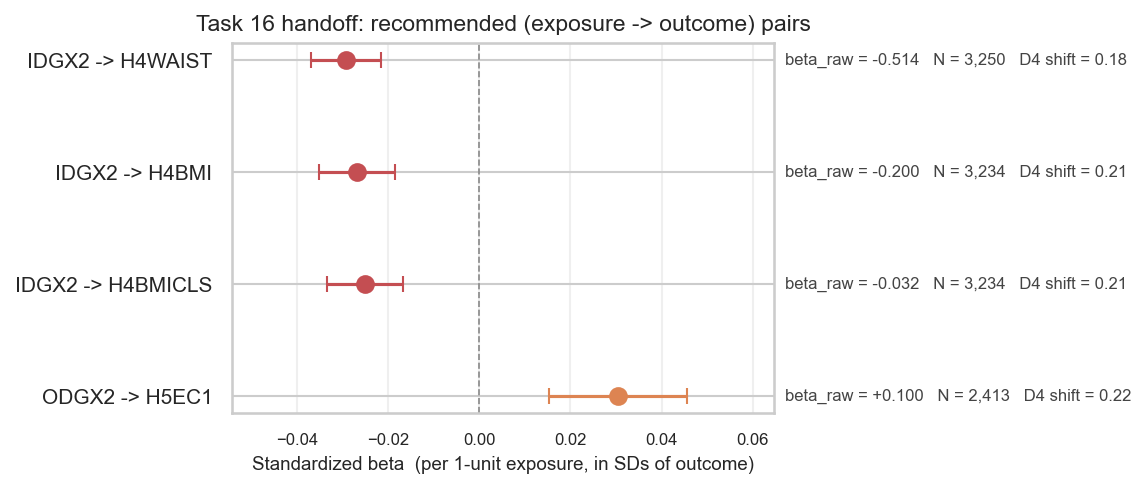
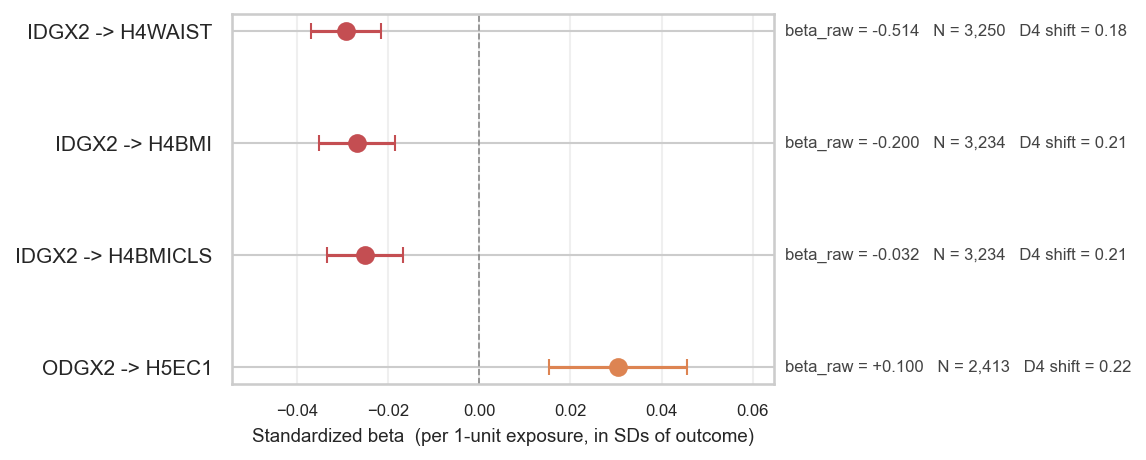
Improved documentation—variable dictionary, research journal, dataset synthesis

diff --git a/scripts/task15_journal_figs.py b/scripts/task15_journal_figs.py
@@ -67,7 +67,6 @@ def per_outcome_pcount() -> None:
     ax.axvline(24, linestyle=":", color="#888", linewidth=0.8)
     ax.set_xlim(0, 26)
     ax.set_xlabel("# of 24 exposures with p < 0.05")
-    ax.set_title("Breadth of social-exposure signal across outcomes (D1 baseline)")
 
     # Legend for group colors.
     from matplotlib.patches import Patch
@@ -133,7 +132,6 @@ def handoff_forest() -> None:
     ax.set_yticks(range(len(df)))
     ax.set_yticklabels(df["label"], fontsize=10)
     ax.set_xlabel("Standardized beta  (per 1-unit exposure, in SDs of outcome)")
-    ax.set_title("Task 16 handoff: recommended (exposure -> outcome) pairs")
     # Extra right-side room for annotations.
     ax.set_xlim(min(df["lo"].min(), 0) * 1.2 - 0.01, max(df["hi"].max(), 0) * 1.2 + 0.01)
     plt.subplots_adjust(right=0.55)

diff --git a/scripts/task14_causal_screening.py b/scripts/task14_causal_screening.py
@@ -578,7 +578,6 @@ def plot_figures(results: pd.DataFrame) -> None:
     ax.set_yticks(range(len(results)))
     ax.set_yticklabels([f"{r.exposure}  ({r.group})"
                         for _, r in results.iterrows()])
-    ax.set_title("Screening diagnostics: green=pass, red=fail, grey=NA")
     # Overlay pass-count badges.
     for i, (_, r) in enumerate(results.iterrows()):
         ax.text(len(labels) - 0.5 + 0.8, i,
@@ -648,7 +647,6 @@ def plot_figures(results: pd.DataFrame) -> None:
     ax.set_yticks(range(len(order)))
     ax.set_yticklabels(order["exposure"].values)
     ax.set_xlabel("beta on W4_COG_COMP across adjustment sets")
-    ax.set_title("D4 adjustment-set stability")
     ax.legend(loc="lower right", frameon=True)
     plot_style.save(fig, "causal/adjustment_stability.png")
 

diff --git a/scripts/task06_attrition.py b/scripts/task06_attrition.py
@@ -294,10 +294,6 @@ def stacked_bar(pres: pd.DataFrame, out_path: Path) -> None:
     ax.set_xticks(x)
     ax.set_xticklabels([lab for lab, _ in wave_labels], rotation=35, ha="right")
     ax.set_ylabel("W1 AIDs appearing in file (public-use)")
-    ax.set_title(
-        "Public-use appearances per file, stacked by Wave I biological sex\n"
-        "(baseline cohort = 6,504 W1 in-home respondents)"
-    )
     ax.legend(title="Sex (W1)")
     ax.set_ylim(0, max(totals) * 1.12)
     fig.tight_layout()

diff --git a/scripts/task12_regression_plots.py b/scripts/task12_regression_plots.py
@@ -467,8 +467,6 @@ def plot_ahpvt_with_without() -> None:
     ax.set_yticks(y)
     ax.set_yticklabels([f"{r.term} → {r.outcome}" for _, r in d.iterrows()])
     ax.set_xlabel("β (W4 cognition)")
-    ax.set_title("AH_PVT as bad control: β shift when AH_PVT is included\n"
-                 "(large shrinkage = candidate for mediation, not confounding)")
     ax.legend()
     fig.tight_layout()
     save(fig, "sensitivity/ahpvt_with_without.png")

diff --git a/scripts/task15_multi_outcome.py b/scripts/task15_multi_outcome.py
@@ -190,7 +190,6 @@ def plot_heatmaps(mat: pd.DataFrame) -> None:
                     j + 0.5, i + 0.5, "*",
                     ha="center", va="center", color="black", fontsize=14, fontweight="bold",
                 )
-    ax.set_title("Multi-outcome β standardized per outcome (* p<0.05)")
     ax.set_xlabel("")
     ax.set_ylabel("")
     plt.setp(ax.get_xticklabels(), rotation=45, ha="right")

diff --git a/reference/addhealth_synthesis.md b/reference/addhealth_synthesis.md
@@ -381,6 +381,43 @@ Wave V prefix structure (`data/W5/pwave5.xpt`):
 
 18 adjective items under `H3BM*` (Section 20 of Wave III) are visible in public-use. Exact labels for the retained items: `H3BM8` "S20Q8 TRADITIONAL SEX ROLES BEST-W3", `H3BM9` "S20Q9 R DEFENDS BELIEFS-W3", `H3BM10` "S20Q10 R IS AFFECTIONATE-W3", …, `H3BM36` "S20Q36 R IS AGGRESSIVE-W3". Derived scale scores are not in public-use.
 
+### 5.6 Identification assumptions and target estimand
+
+This is the single most important section for anyone reading coefficient tables or handoff recommendations. What follows is the causal model the screen assumes, the estimand we are targeting, and where the assumption is load-bearing.
+
+> ⚠ **AHPVT is assumed to be a confounder, not a mediator.** Every β reported in this project (tasks 10–15) conditions on `AH_PVT` (W1 verbal IQ) as part of the primary spec L0+L1+AHPVT. This is correct if AHPVT causally predicts both adolescent social integration and adult outcomes independently; it is **wrong** if AHPVT is instead on the causal path from social integration to cognition, in which case the adjustment shrinks the total effect toward zero. Task 14's D4 diagnostic measures the β drift when AHPVT is added but **cannot distinguish these two cases**. Task 16 will do so via a front-door / IV decomposition. Until then, every "weak / weakened" finding on a cognitive outcome should be read as "*weak conditional on the confounder interpretation*."
+
+**Target estimand.** The **total effect** of a W1 social-exposure X on outcome Y measured at W4 (cognition, cardiometabolic) or W5 (SES, mental health, functional) — i.e. the contrast E[Y|do(X=x1)] − E[Y|do(X=x0)] averaged over the analytic-cell population. We are not targeting a direct-only or indirect-only effect in the screen.
+
+**Assumed causal structure** (in plain DAG terms, no graph rendered here):
+
+- **Common causes** C flow into both X and Y: demographics (`BIO_SEX`, `RACE`, `PARENT_ED`), W1 mental/health state (`CESD_SUM`, `H1GH1`), and — under the confounder interpretation — W1 verbal IQ (`AH_PVT`).
+- **Assumed adjacencies**: C → X, C → Y, X → Y. No assumed direct adolescent → adolescent reverse arrow (X is measured at W1, Y at W4 or W5).
+- **Assumed absent**: unmeasured confounders (school climate, family SES beyond parental education, genetic variants). **This is the most aggressive assumption** and is what the D2 negative-control outcome was meant to test; the height NC is contaminated (see [§9](#9-outcome-battery-primary--multi-outcome-extension)) so this assumption is currently weak.
+- **Mediators** deliberately *not* adjusted for: W5 social support (`H5SS*`), W4 biomarker state (CRP, glucose) when outcome is W5. Adjusting for these would block a portion of the target total effect.
+
+**Adjustment-set ladder.** L0 → L0+L1 → L0+L1+AHPVT is designed so the β drift across the three (D4) measures *how much* of the raw signal the covariate tier explains. It is not three competing models; it is one primary (L0+L1+AHPVT) with two diagnostic reductions.
+
+| Set | Closes back-doors through | Identification role |
+|---|---|---|
+| L0 | Demographics (sex, race, parental ed) | Minimum socially-acceptable adjustment; most β estimates will move substantially when L1 is added if W1 mental/health state is a confounder |
+| L0+L1 | + CES-D + self-rated health at W1 | Blocks confounding via W1 affective / somatic state |
+| L0+L1+AHPVT | + W1 verbal IQ | **Primary spec.** Closes the remaining IQ-driven back-door under the confounder interpretation |
+
+**Positivity / overlap** is required for every stratum of the adjustment set at every level of X. The screen checks this empirically via D7 (Q5-vs-Q1 logit for continuous X; binary balance for binary X; pass = p̂ ∈ (0.02, 0.98) and effective N ≥ 500). **Structural positivity violations** in public-use:
+
+- **Saturated-school gating** (W1 network exposures): ~32 % of W1 respondents are excluded because their school did not meet the ≥75 % roster-participation threshold. The target estimand for network exposures is therefore the ATE within saturated schools, not the ATE across all Grade-7–12 adolescents.
+- **Mode restriction** (W5 cognitive outcomes): only W5 respondents in modes {I, T} received the cognitive battery (~824 of 4,196 once intersected with network data). For any W5 cognitive outcome the target is the ATE within the mode-eligible subpopulation, and generalisability to the full W5 cohort requires an additional IPAW stage.
+- **W4 → W5 attrition.** Differential retention by sex × race (see [§2.1](#21-design) and the [research_journal.md §Phase 2](research_journal.md) chart). Formal W5-outcome estimation needs **inverse-probability-of-attrition weighting (IPAW)**: fit a logistic model for "appears in W5" on L0+L1+AHPVT, take the inverse fitted probability, multiply into `GSW5`. The screen uses `GSWGT4_2` across both W4 and W5 outcomes as a comparability shortcut, not an estimation-grade weight.
+
+**What the screen does NOT identify without additional assumptions:**
+
+- Direct-only or indirect-only effects (needs mediator formula + no-unmeasured-mediator-outcome confounding; task 16 territory).
+- Population ATE across non-saturated schools (positivity fails by design).
+- Any W6 outcome (the Add CAPS cognitive battery is restricted-use; no public-use outcome at W6 maps to the W1 exposure set).
+
+See the [Glossary](#glossary) for plain-language definitions of *back-door path*, *confounder vs. mediator*, *positivity*, *negative-control outcome*, and *IPAW*.
+
 ---
 
 ## 6. Analytic feasibility — joint-complete sample sizes
@@ -408,6 +445,28 @@ These are the actual usable Ns after AID overlap + exposure non-missing + outcom
 
 **Impossible in public-use:** W6 as a cognitive outcome; friend-level characteristics; custom networks beyond the 439 pre-computed.
 
+### 6.5 Causal-screening diagnostic battery (D1–D9)
+
+Every exposure in task 14 passes through nine diagnostics. Each D tests a specific identification assumption or data-quality condition; passing them together is necessary but not sufficient for a causal interpretation. Full implementation: [scripts/task14_causal_screening.py](../scripts/task14_causal_screening.py). Per-exposure pass/fail grid: [outputs/14_screening_matrix.csv](../outputs/14_screening_matrix.csv). Narrative walk-through: [research_journal.md §Phase 4](research_journal.md#phase-4--preliminary-causal-screening-d1d9).
+
+Terms used below (see [Glossary](#glossary) for plain-language intuition): *back-door path*, *confounder vs. mediator*, *negative-control outcome*, *positivity*, *collider*.
+
+| # | Name | What it checks | Formal pass criterion | Fail means |
+|:-:|---|---|---|---|
+| **D1** | Baseline significance | Is there any signal at the primary spec (L0+L1+AHPVT) before stability / specificity checks? | p < 0.05 on the exposure coefficient in a WLS fit with `GSWGT4_2` + cluster-robust SE on `CLUSTER2` | No detectable marginal association; later diagnostics are informational only |
+| **D2** | Negative-control outcome | Does the exposure predict an outcome it *shouldn't* (`HEIGHT_IN`)? If yes, unmeasured confounding is likely. | p ≥ 0.10 on exposure → adult height, under the primary adjustment set | NC-level confounding is detected — but see the contamination caveat in [§9](#9-outcome-battery-primary--multi-outcome-extension) |
+| **D3** | Sibling dissociation | Is the target effect larger than a "related but weaker" sibling exposure, and in the same sign? Same-school / same-grid contrast. | `sign(β_target) == sign(β_sibling)` **AND** `\|β_target\| > \|β_sibling\|` **AND** `\|β_target − β_sibling\| > sqrt(se_t² + se_s²)` | Target and sibling are indistinguishable → target probably isn't capturing exposure-specific signal |
+| **D4** | Adjustment-set stability | How much does β drift as the adjustment set expands L0 → L0+L1 → L0+L1+AHPVT? Large drift = hidden confounding OR hidden mediation. | Relative shift `(max − min) / \|β_primary\| < 0.30` **AND** sign stable across all three | β depends on which covariates you include — causal identification is not closed by the assumed DAG |
+| **D5** | Outcome-component consistency | Do the three W4 cognitive sub-tests (immediate/delayed word recall, digit span) line up in sign? Cognition only. | All three component β in the same direction as the composite, no opposite-sign dissent | Composite signal is driven by one sub-test; spurious or narrow construct |
+| **D6** | Dose-response monotonicity | For a continuous exposure, does the outcome move monotonically across exposure quintiles? | Spearman ρ across quintile means ≥ 0.6, no mid-range inversion | Non-monotonic response — linear-in-X spec is mis-specified |
+| **D7** | Positivity / overlap | Is there non-zero probability of every exposure level at every covariate stratum? Q5-vs-Q1 logit (continuous) or binary balance (binary). | Fitted p̂ ∈ (0.02, 0.98) AND effective N ≥ 500 after overlap trimming | No usable comparison group in parts of covariate space; estimate is extrapolation |
+| **D8** | Saturated-school selection penalty | Informational. How much of W1 is lost to the network-file saturation gate for this specific exposure? | Reports N(analytic) / N(W1) ratio; no pass/fail threshold | External-validity caveat — estimand is within-saturated-schools |
+| **D9** | Collider / double-adjustment red flags | Hard-coded list of known bad-combination exposures (e.g. using `H1FS13` as exposure while adjusting for `CESD_SUM`, which contains `H1FS13`). | Not on the red-flag list | Collider bias or mechanical double-counting; drop from shortlist |
+
+**Composite score.** Each exposure is scored 0–8 based on passes across D1–D9 (D8 is informational; red-flags discount the score). Categories: **Strong** (score ≥ 7), **Mixed** (5–6), **Weakened** (3–4), **Drop** (< 3 or D9 red flag). The task-16 handoff is drawn from Strong + Mixed, never from Drop.
+
+**Why the battery is not sufficient.** Passing D1–D9 does *not* prove a causal effect — it only rules out nine specific failure modes. Unmeasured confounders outside the L0+L1+AHPVT set (school climate, early-childhood cognition, family SES beyond parental education) are still possible. Task 16's job is to bound those via front-door decomposition, E-value-style sensitivity, and a cleaner NC battery.
+
 ---
 
 ## 7. Data-quality gotchas
@@ -418,8 +477,8 @@ These are the actual usable Ns after AID overlap + exposure non-missing + outcom
 4. **Wave V mode restriction** on cognitive tests: In-person + Telephone only. 95% of non-administration is the `995` / `9995` "question not asked" reserve code.
 5. **Reserve-code heterogeneity.** W1–W4 use 6/96/996 (refused), 7/97/997 (skip), 8/98/998 (DK), 9/99/999 (NA). W5 adds 95/995/9995 ("not asked") and Web/Mail modes have no DK option — DK arrives as silent NA.
 6. **`AH_PVT` ~15% missing.** Use `AH_RAW` (~4.3% missing) and re-standardize.
-7. **`PRXPREST` is continuous in public-use.** Range 0.00045–0.774, mean 0.161, std 0.070, 3,920 unique values across N=4,020 non-null in `w1network.sas7bdat`. Treat as a continuous centrality measure (earlier notes in this doc that described it as binary 0/1 were incorrect and have been corrected; see also §2 variable table line for PRXPREST which shows the continuous range).
-8. **Attrition is strongly sex-patterned.** At W5, female retention 64–76% vs male 43–63% within race strata. `GSW5`/`GSW6` correct partially for observed-cause attrition; IPAW or bounding is advisable for longitudinal claims.
+7. **`PRXPREST` is continuous in public-use.** Range 0.00045–0.774, mean 0.161, std 0.070, 3,920 unique values across N=4,020 non-null in `w1network.sas7bdat`. Treat as a continuous centrality measure.
+8. **Attrition is strongly sex-patterned.** At W5, female retention 64–76% vs male 43–63% within race strata. `GSW5`/`GSW6` correct partially for observed-cause attrition; [IPAW](#glossary) or bounding is advisable for longitudinal claims (see [§5.6](#56-identification-assumptions-and-target-estimand)).
 9. **Race construction is hierarchical** in the default `RACE` variable — build from `H1GI6A–E` for flexible coding.
 10. **Age uses month + year only** (day 15 imputed). Use the most recent wave's birthdate for discrepancies.
 
@@ -474,9 +533,16 @@ The primary design targets W4 cognition (`W4_COG_COMP`, a z-score composite of `
 | `H5MN2` | "S13Q2 LAST MO CONFID HANDLE PERS PBMS—W5" | W5 | 5-point Likert | `GSWGT4_2` | 2,380 | secondary screen | PSS-4 component, **reverse-scored direction** vs `H5MN1` |
 | `H5LM5` | "S3Q5 CURRENTLY WORK—W5" | W5 | 3-level | `GSWGT4_2` | 2,436 | secondary screen | Not binary: {1=yes, 2=no temp absent, 3=no not employed}. Task16 should recode before logistic estimation |
 | `H5EC1` | "S4Q1 INCOME PERS EARNINGS [W4–W5]—W5" | W5 | bracketed 1–13 | `GSWGT4_2` | 2,413 | secondary screen | **Bracketed dollars, not raw income** (1 = <$5k, 13 = $250k+). Treat as ordinal |
-| `HEIGHT_IN` | derived in inches from `H4SE2`/`H4SE3` | W4 | continuous | `GSWGT4_2` | 3,392 | negative control | D2 diagnostic. **Contaminated NC**: adolescent height is known to correlate with peer popularity, so D2 failure on centralities is not conclusive proof of confounding |
+| `HEIGHT_IN` | derived in inches from `H4SE2`/`H4SE3` | W4 | continuous | `GSWGT4_2` | 3,392 | negative control (contaminated) | D2 diagnostic. Adolescent height is known to correlate with peer popularity, so D2 failure on centralities is *not* conclusive proof of confounding |
 
-> **Weight caveat.** `GSWGT4_2` is used uniformly across all 14 outcomes for screening — this is statistically incorrect for the W5 outcomes (where the design-correct weight is `GSW5` or `GSW145`/`GSW1345`), but preserves rank-order across outcomes for a *comparative* screen. Formal causal estimation in Task 16 should: (1) switch to `GSW5` + IPAW for W4→W5 attrition when the outcome is W5-observed, (2) retain `GSWGT4_2` for pure-W4 outcomes, and (3) explicitly model the ~824-row overlap between saturated-school network respondents and W5 cognitive-eligible (mode ∈ {I, T}) respondents before declaring a point estimate on longitudinal pathways.
+> **How to read D2 results given the contaminated NC.** The task 14 D2 column is reported for transparency but is **not load-bearing** for the shortlist. We do not drop an exposure from the Strong / Mixed category on the basis of D2 alone; we *do* report D2 passes as weak corroboration of no NC-level confounding. A D2 fail on network-centrality exposures (`IDGX2`, `BCENT10X`) is treated as ambiguous — it could indicate unblocked confounding, **or** it could reflect the known height → peer-status pathway. Task 16 will introduce a cleaner NC battery (blood type, age at menarche, hand-dominance, residential stability pre-W1) to resolve this; until then any handoff recommendation should be caveated as "D2-unverified." See also [research_journal.md §Phase 4 critique](research_journal.md#phase-4--preliminary-causal-screening-d1d9).
+
+> **Weight caveat and IPAW for W5 outcomes.** `GSWGT4_2` is used uniformly across all 14 outcomes for screening — this is a comparability shortcut that preserves rank-order across outcomes for a *screen*, but is not an estimation-grade weight for W5 outcomes. Formal causal estimation in Task 16 should:
+>
+> 1. **Use `GSW5` for W5 outcomes, `GSWGT4_2` for pure-W4 outcomes.** Each wave's cross-sectional weight targets a specific population (W4-retained respondents vs. W5-retained respondents).
+> 2. **Layer IPAW on top of `GSW5`.** `GSW5` corrects for **observed** attrition patterns the Add Health team modeled (sex, race, region), but not for attrition that is differential on W1 covariates or exposure. [IPAW](#glossary) = fit a logistic model for "appears in W5 mode-eligible cell" on L0+L1+AHPVT + exposure, compute the inverse fitted probability, and multiply into `GSW5`. This targets the W5 cognition/SES/mental-health outcome's ATE in the broader population that W4 respondents were drawn from.
+> 3. **Re-check positivity under `GSW5` + IPAW.** Extreme IPAW weights (> 95th percentile) should be trimmed or stabilized; document stabilized effective N.
+> 4. **Bound, don't adjust**, when the full covariate set for a proper IPAW fit isn't observed (e.g. school saturation). Prefer Manski-style bounds to a speculative weight.
 
 ### Key task-15 findings
 
@@ -520,10 +586,90 @@ See also: [feasibility_summary.md](feasibility_summary.md) for the empirical pro
 
 ---
 
+## Glossary
+
+Plain-language definitions of the causal-inference and survey-statistics vocabulary used throughout the reference set. Each entry points to the section in this document where the concept first appears and explains *why* it matters for the project. Alphabetical.
+
+### Back-door path
+<a id="glossary-back-door-path"></a>
+An indirect route from the exposure X to the outcome Y through a common ancestor C (C → X and C → Y), rather than through the intended causal channel X → Y. Back-door paths create *spurious* associations that look like causation. **Why it matters**: every unblocked back-door path biases the causal estimate. The job of the adjustment set ([§5.6](#56-identification-assumptions-and-target-estimand)) is to "close" all back-door paths by conditioning on at least one variable on each path. First used in [§7 pitfall #1 context](#7-data-quality-gotchas); formalised in [§5.6](#56-identification-assumptions-and-target-estimand).
+
+### CASI (Computer-Assisted Self-Interview)
+Sensitive items (drug use, sexual behaviour, mental-health items under `H5MN*`) are delivered via respondent-controlled screen so an interviewer is not in the loop. Higher truth-telling but more item non-response. First used in [§5.4](#54-wave-v-adult-contemporaneous-covariates).
+
+### Cluster-robust standard error
+A standard error that accounts for within-PSU correlation by treating each cluster (school pair = `CLUSTER2`) as a unit for variance computation. **Why it matters**: nominal OLS SEs assume independent observations. Add Health is school-clustered, so nominal SEs are too small; cluster-robust SEs are wider and more honest. First used in [§2.1](#21-design).
+
+### Collider
+A variable jointly *caused* by two others (X → C ← Z). **Why it matters**: conditioning on a collider *opens* a spurious association between its causes, the opposite of what you want. Example: if peer centrality and depression both cause school belonging, adjusting for school belonging creates a spurious centrality–depression correlation. D9 in the diagnostic battery ([§6.5](#65-causal-screening-diagnostic-battery-d1d9)) flags known-collider exposure choices.
+
+### Confounder
+A common cause of both exposure and outcome — adjusting for it is *required* to identify the causal effect. **Why it matters**: contrast with mediator — the two look the same empirically (both shift β when added to the model) but call for opposite treatment. The [AHPVT callout](#56-identification-assumptions-and-target-estimand) is the project's load-bearing confounder-vs-mediator ambiguity. First used in [§5.6](#56-identification-assumptions-and-target-estimand).
+
+### DAG (Directed Acyclic Graph)
+A flowchart where nodes are variables and arrows run from causes to effects, with no cycles. **Why it matters**: drawing a DAG forces you to make causal assumptions explicit, and once it's drawn, graph-theoretic rules tell you which covariates to adjust for. This project does not render a full DAG but describes one textually in [§5.6](#56-identification-assumptions-and-target-estimand).
+
+### Design effect (DEFF)
+Ratio of the true variance under the complex design to the variance under simple random sampling of the same N. **Why it matters**: DEFF > 1 means your 3,500-observation sample behaves like a smaller SRS sample for inference purposes. Audited in [outputs/13_deff.csv](../outputs/13_deff.csv).
+
+### Dose-response monotonicity
+The expectation that as exposure increases, the outcome changes in a consistent direction — no plateaus, inversions, or threshold effects. **Why it matters**: D6 in the diagnostic battery. A non-monotonic dose-response can signal non-linearity, effect heterogeneity, or misspecification of the linear-in-X model.
+
+### Effective N (eff N)
+Sample size adjusted for design effect and, where relevant, weight dispersion: `eff_N = N / DEFF` or more generally `eff_N = (Σw)² / Σw²`. **Why it matters**: D7 positivity check requires eff_N ≥ 500 post-trimming, not raw N. See [§6.5](#65-causal-screening-diagnostic-battery-d1d9).
+
+### Front-door criterion
+A causal identification strategy that bounds the X → Y effect through a mediator M when back-door adjustment fails (because unmeasured confounders exist). Requires X → M → Y with no direct X → Y, M fully mediating, and no unmeasured M–Y confounders. **Why it matters**: Task 16's plan for distinguishing whether AHPVT is a confounder or mediator of the social-integration → cognition path.
+
+### Identification (identifying assumption, identification strategy)
+The set of causal assumptions under which a statistical estimand (e.g. a regression coefficient) equals the causal estimand of interest (e.g. E[Y|do(X)]). **Why it matters**: β̂ is always estimable; whether it equals the causal effect depends on whether the identifying assumptions hold. [§5.6](#56-identification-assumptions-and-target-estimand) lists this project's assumptions.
+
+### IPAW (Inverse-Probability-of-Attrition Weighting)
+A reweighting scheme that inflates the weight on respondents who *remained* in the study to compensate for attrition of similar respondents. Computed as `w_IPAW = 1 / Prob(remain | covariates)`. **Why it matters**: W4 → W5 attrition is sex-patterned; cross-sectional W5 weights `GSW5` only partially correct for it. Formal W5 estimation should apply IPAW on top of `GSW5`. See [§5.6](#56-identification-assumptions-and-target-estimand) and outstanding uncertainty #3 in [research_journal.md](research_journal.md).
+
+### IV (Instrumental Variable)
+A variable Z that affects the exposure X but not the outcome Y except through X, and shares no common cause with Y. Used to identify X → Y even under unmeasured confounding. **Why it matters**: a fallback identification strategy for Task 16 if front-door is not credible.
+
+### Mediator
+A variable on the causal path X → M → Y. **Why it matters**: adjusting for M blocks part of the total effect, *shrinking β toward zero*. This is the opposite of what adjusting for a confounder does (which should reveal the true β by removing bias). The two operations look identical in a regression table — only a DAG (or a front-door / IV decomposition) can tell them apart. See [AHPVT callout, §5.6](#56-identification-assumptions-and-target-estimand).
+
+### Mode (W5 survey mode)
+The channel through which the W5 interview was administered: W = Web, I = In-person, M = Mail, T = Telephone, S = Spanish CAPI. **Why it matters**: cognitive items were administered only in I + T, restricting the W5 cognitive analytic cell to ~624 of 4,196. See [§4.5](#45-wave-v-cognitive-battery-datawaw5pwave5xpt).
+
+### Negative-control outcome (NC)
+An outcome Y* that, under the assumed causal model, should **not** be affected by X. If X still predicts Y*, unmeasured confounding is implicated. **Why it matters**: D2 in the diagnostic battery uses `HEIGHT_IN`. The NC is contaminated (adolescent height correlates with peer popularity), so failures on network exposures are ambiguous. See [§9](#9-outcome-battery-primary--multi-outcome-extension).
+
+### Positivity (overlap)
+The assumption that every level of the exposure has non-zero probability of occurring at every level of the covariates. Formally: P(X = x | C = c) > 0 for all (x, c). **Why it matters**: without positivity, causal estimates in the violated region are extrapolations beyond the data, not causal effects. D7 in the diagnostic battery tests positivity empirically. Structural positivity violations (saturated-school gating, W5 mode restriction) are documented in [§5.6](#56-identification-assumptions-and-target-estimand).
+
+### Post-stratification weight
+A weight that re-scales the sample so that known marginal distributions (e.g. age × sex × race) match the population. **Why it matters**: `GSWGT4_2` is a post-stratified weight. Post-stratification corrects for differential sampling and non-response, not for unmeasured confounding.
+
+### PSU (Primary Sampling Unit)
+The first-stage unit in a multistage sample; for Add Health this is the high-school / feeder-middle-school pair (`CLUSTER2`, 132 PSUs). **Why it matters**: cluster-robust SEs, design effects, and `svyset` all reference the PSU. First used in [§2.2](#22-design-variables-in-public-use).
+
+### Reserve code
+Non-substantive codes on a variable indicating refusal, don't know, skip, or not-administered (W1–W4: 6/96/996 etc.; W5 adds 95/995/9995 for "not asked"). **Why it matters**: treating reserve codes as substantive values (e.g., summing them into a scale) silently corrupts every downstream statistic. `analysis_utils.clean_var` + `VALID_RANGES` strip them. See [§7 pitfall #5](#7-data-quality-gotchas).
+
+### Saturated school
+A school where ≥ 75 % of the student roster participated in the W1 In-School Questionnaire. **Why it matters**: network centralities (in-degree, etc.) require knowing who nominated the respondent, so they are only defined in saturated schools. ~32 % of W1 respondents are in non-saturated schools; their network variables are structurally missing. First used in [§3.1](#31-wave-i-public-use-network-file--pre-computed-sociometric-measures); positivity consequences in [§5.6](#56-identification-assumptions-and-target-estimand).
+
+### Sibling dissociation (D3)
+A specificity check: the *target* exposure should have a larger effect than a *sibling* exposure (a related variable expected to carry less of the causal signal), and both should move in the same direction. **Why it matters**: a target with a smaller or opposite-signed effect than its sibling is probably not capturing exposure-specific signal. Formalised in [§6.5](#65-causal-screening-diagnostic-battery-d1d9).
+
+### Stratum
+The second design dimension (after clustering) in a complex survey. **Why it matters**: stratum information is *not* in the public-use Add Health distribution. Per the Add Health user guide, omitting stratum "only minimally affects the standard errors," so this project sets stratum to empty in `svyset`. First used in [§2.2](#22-design-variables-in-public-use).
+
+### TFN (Total Friendship Nominations)
+The W1 In-School Questionnaire asked each student to nominate up to 5 male + 5 female friends from the school roster. Centralities tagged with "TFN" (e.g. `IDGX2` "In-Degree: TFN") are computed on this 10-nomination-cap network. See [§3.1](#31-wave-i-public-use-network-file--pre-computed-sociometric-measures).
+
+---
+
 ## Changelog
 
 Reverse-chronological. Only entries that can be verified from the repo / git history or the current session.
 
+- **2026-04-21** — Reviewer-feedback pass (causal-inference PhD student + math/CS undergrad): added §5.6 "Identification assumptions and target estimand" with starred AHPVT confounder-vs-mediator callout and the assumed-DAG / positivity / IPAW narrative; added §6.5 "Causal-screening diagnostic battery (D1–D9)" with formal pass/fail thresholds and plain-language intuition per diagnostic; expanded the §9 weight caveat into an explicit IPAW recipe and added a "how to read D2 under the contaminated NC" callout; added a plain-language [Glossary](#glossary) appendix with anchor links used throughout the reference set. Pitfall #7 (PRXPREST) trimmed — the stale "earlier notes were incorrect" apology is removed now that the root cause is fixed in [scripts/task05_weighted_descriptives.py](../scripts/task05_weighted_descriptives.py) and the regenerated [outputs/05_weighted_descriptives.md](../outputs/05_weighted_descriptives.md).
 - **2026-04-21** — §9 rewritten from "Pivot option — cardiometabolic / vascular outcomes" to "Outcome battery: primary + multi-outcome extension" covering the 12 Task 15 outcomes + primary cognition + height NC (14-row outcome table with weight caveat callout). §10 deliverables index extended from task 7 through task 15. §2.5 now points readers to the new [variable_dictionary.md](variable_dictionary.md). This Changelog section added.
 - **2026-04-20** — Pitfall #7 (§7) corrected: `PRXPREST` was previously described as a binary 0/1 variable, which contradicted §3.1 line 117 showing the continuous range [0, 0.77]. Corrected to "continuous in public-use" with empirical range / mean / std and an explicit note that earlier binary descriptions were wrong.
 - **Earlier** — Initial merged synthesis from v2 feasibility report + documentation report + empirical feasibility summary. See `git log reference/addhealth_synthesis.md` for prior history.

diff --git a/reference/research_journal.md b/reference/research_journal.md
@@ -2,7 +2,7 @@
 
 Chronological log of analytic steps, headline findings, and outstanding uncertainties. Intended as a narrative companion to [addhealth_synthesis.md](addhealth_synthesis.md) (the dataset-reference manual) and [variable_dictionary.md](variable_dictionary.md) (per-code lookup). Each phase below corresponds to one or more scripts in [../scripts/](../scripts/) and artefacts in [../outputs/](../outputs/) + [../img/](../img/).
 
-Terms, variable codes, and dataset-level conventions used here (waves, weights, mode restrictions, reserve codes) are defined in the synthesis and not re-explained; new readers should skim §§1–5 of [addhealth_synthesis.md](addhealth_synthesis.md) first.
+Terms, variable codes, and dataset-level conventions used here (waves, weights, mode restrictions, reserve codes) are defined in the synthesis and not re-explained; new readers should skim §§1–5 of [addhealth_synthesis.md](addhealth_synthesis.md) first. For plain-language definitions of causal-inference vocabulary (*back-door path*, *confounder vs. mediator*, *positivity*, *IPAW*, *front-door*, *collider*, *DAG*, *PSU*, *saturated school*, *negative control*, etc.), see the [synthesis Glossary](addhealth_synthesis.md#glossary) — this journal assumes the glossary's definitions.
 
 ---
 
@@ -44,7 +44,7 @@ Reserve-code handling (6/7/8/9, 96/97/98/99, 995/9995) is codified in `analysis_
 
 Wave-conditional retention is sharply sex- and race-patterned: at W5, female retention runs 64–76 % versus male 43–63 % within race strata, with higher attrition in Black male and Native American cells.
 
-![W1 → W2/W3/W4/W5 attrition stacked by sex × race](../outputs/06_attrition_stacked_bar.png)
+![Public-use W1 → W6 appearances per wave, stacked by W1 biological sex. Baseline is 6,504 W1 in-home respondents; female retention (pink) widens the sex gap at each wave.](../outputs/06_attrition_stacked_bar.png)
 
 Analytic frames were frozen in [outputs/cache/](../outputs/cache/) parquets (`w1inhome`, `w1network`, `w1friendship`, `w3pvt`, `w4inhome`, `pwave5`, and the combined `analytic_primary`) so downstream tasks don't re-read SAS files.
 
@@ -58,11 +58,11 @@ Analytic frames were frozen in [outputs/cache/](../outputs/cache/) parquets (`w1
 
 Ran weighted OLS for each of the 24 exposures against `W4_COG_COMP` under nested adjustment sets L0 → L0+L1 → L0+L1+AHPVT, with cluster-robust SEs on `CLUSTER2` (132 PSUs). Task 11 layered collinearity checks, leave-one-out permutation, saturated-school balance, AHPVT shift audits, placebo permutation, and reserve-code sensitivity; task 13 verified Benjamini–Hochberg FDR, attrition IPAW, negative-control exposures/outcomes, design-effect estimates, PSU counts.
 
-![Coefficient shift when AHPVT is added vs. removed from the primary spec](../img/sensitivity/ahpvt_with_without.png)
+![Each row is one (exposure → W4 cognition) model. Grey circle = β without `AH_PVT` in the adjustment set; red square = β with. Every network centrality shrinks 30–50 % when `AH_PVT` is added — the signature shift that either confounder or mediator interpretations would produce (see [synthesis §5.6 AHPVT callout](addhealth_synthesis.md#56-identification-assumptions-and-target-estimand)).](../img/sensitivity/ahpvt_with_without.png)
 
 **Main finding.** Adjusting for AHPVT attenuates every network-centrality → cognition association by 30–50 %. `ODGX2` (nominations sent) holds the largest stable effect post-adjustment; `IDGX2` (in-degree) attenuates heavily but retains significance; `BCENT10X` (Bonacich) has the largest raw β but attenuates the most. No exposure survives L0+L1+AHPVT with D4 rel-shift < 30 %.
 
-**Uncertainty logged.** Whether AHPVT is a confounder (verbal IQ predicts both social integration and adult cognition) or a mediator of the integration → cognition path. Conditioning on a mediator under-estimates the total effect; this ambiguity is unresolved at this phase and propagates to the screen in Phase 4.
+**Uncertainty logged — load-bearing.** Whether `AH_PVT` is a [confounder](addhealth_synthesis.md#confounder) (verbal IQ independently predicts both social integration and adult cognition — adjustment is *required*) or a [mediator](addhealth_synthesis.md#mediator) of the integration → cognition path (adjustment *under-estimates* the total effect). The two cases produce identical D4 drift, so D4 alone cannot distinguish them. This project's standing assumption is *confounder*; the [synthesis §5.6 AHPVT callout](addhealth_synthesis.md#56-identification-assumptions-and-target-estimand) flags this as the single largest threat to interpretation of any cognitive-outcome finding. Task 16's [front-door](addhealth_synthesis.md#front-door-criterion) / [IV](addhealth_synthesis.md#iv-instrumental-variable) decomposition is the planned resolution.
 
 ---
 
@@ -70,10 +70,10 @@ Ran weighted OLS for each of the 24 exposures against `W4_COG_COMP` under nested
 
 **Task:** 14. **Script:** [task14_causal_screening.py](../scripts/task14_causal_screening.py). **Outputs:** [outputs/14_screening.md](../outputs/14_screening.md), [outputs/14_screening_matrix.csv](../outputs/14_screening_matrix.csv), [outputs/14_shortlist.csv](../outputs/14_shortlist.csv).
 
-Nine-diagnostic screen over 24 W1 social exposures:
+Nine-diagnostic screen over 24 W1 social exposures. Formal pass/fail thresholds and plain-language intuition for each D-code live in [synthesis §6.5](addhealth_synthesis.md#65-causal-screening-diagnostic-battery-d1d9); the list below is a one-line refresher:
 
 - **D1** baseline significance (primary spec L0+L1+AHPVT)
-- **D2** height (`HEIGHT_IN`) negative-control outcome
+- **D2** height (`HEIGHT_IN`) negative-control outcome — **contaminated**, see [§9 note](addhealth_synthesis.md#9-outcome-battery-primary--multi-outcome-extension)
 - **D3** sibling dissociation (target vs. related exposure)
 - **D4** adjustment-set stability (L0 / L0+L1 / L0+L1+AHPVT)
 - **D5** outcome-component consistency (`C4WD90` / `C4WD60` / `C4NUMSCR`)
@@ -82,9 +82,9 @@ Nine-diagnostic screen over 24 W1 social exposures:
 - **D8** saturated-school selection penalty (informational)
 - **D9** hard-coded collider / double-adjustment red flags
 
-![D1–D9 pass/fail grid — 24 exposures × 9 diagnostics on W4_COG_COMP](../img/causal/screening_heatmap.png)
+![Screening heatmap: 24 exposures (rows) × 9 diagnostics (columns) on `W4_COG_COMP`. Green = pass, red = fail, grey = N/A. Right-margin tags are the composite category (Strong / Mixed / Weakened / Drop) and score. Nothing survives D4 adjustment stability under the primary spec — every centrality shifts > 30 % when AHPVT is added.](../img/causal/screening_heatmap.png)
 
-![D4 adjustment stability: β under L0, L0+L1, L0+L1+AHPVT](../img/causal/adjustment_stability.png)
+![D4 adjustment-set stability: each row is one exposure, showing β under L0 (blue), L0+L1 (orange), L0+L1+AHPVT (red) on `W4_COG_COMP`. Rows sorted by relative shift. The horizontal spread per row *is* the hidden-confounding-or-mediation signal; the largest shifts are on `BCENT10X` and the ego-network density measures.](../img/causal/adjustment_stability.png)
 
 ### Phase 4.5 — Adversarial review of the screen
 
@@ -107,11 +107,11 @@ Motivated by the observation that a cognition-only outcome over-weights the AHPV
 
 **Sample sizes.** W4 cardiometabolic: median N ≈ 3,200 for network-gated exposures, ≈ 4,600 for friendship-grid. W5 outcomes: median N ≈ 2,400 network-gated, ≈ 3,400 grid. All 288 (24 × 12) cells have sufficient data.
 
-![Per-outcome count of exposures with p < 0.05, grouped by outcome family](../img/causal/15_per_outcome_pcount.png)
+![Per-outcome count of exposures (of 24) hitting p < 0.05, coloured by outcome group. `H5EC1` adult earnings leads at 12/24; `H5ID1` self-rated health 11/24; `W4_COG_COMP` cognition is mid-pack at 5/24; `H4DBP` diastolic BP is null across the board. Dotted line marks the 24-exposure ceiling.](../img/causal/15_per_outcome_pcount.png)
 
-![Task 16 handoff: 4 exposure → outcome pairs with standardized β ± 1.96·SE](../img/causal/15_handoff_forest.png)
+![Task-16 handoff forest: four (exposure → outcome) pairs plotted on standardized β ± 1.96·SE (per 1-unit exposure, in SDs of outcome). Right-margin annotations give raw β, analytic N, and D4 relative shift. All four estimates clear zero by several SEs; all four pass D4 (rel-shift < 30 %).](../img/causal/15_handoff_forest.png)
 
-![Multi-outcome β heatmap — z-standardized within outcome, * marks p < 0.05](../img/causal/multi_outcome_beta_heatmap.png)
+![Multi-outcome β heatmap — 24 exposures (rows) × 12 non-cognitive outcomes (columns), z-standardized within each outcome so hot/cold is comparable across scales; `*` marks p < 0.05. The `IDGX2` row is uniformly blue across cardiometabolic outcomes (protective); the `H5EC1` column is uniformly warm for peer-network exposures; `H4DBP` is null.](../img/causal/multi_outcome_beta_heatmap.png)
 
 **Cross-outcome-robust exposures (top-3 by p for ≥ 3 outcomes):**
 

diff --git a/reference/variable_dictionary.md b/reference/variable_dictionary.md
@@ -100,16 +100,19 @@ Everything below is organised by the variable's role in the analysis, not by wav
 
 **How to read the N column.** For exposures and outcomes this is the effective N in the task 14 / task 15 analytic frame (already network-gated or mode-gated, reserve codes stripped via [scripts/analysis_utils.py](../scripts/analysis_utils.py) `VALID_RANGES`). For raw codebook variables it's the shipped non-missing N.
 
-**Diagnostic codes** (used throughout; full definitions in [research_journal.md §Phase 4](research_journal.md#phase-4--preliminary-causal-screening-d1d9)):
-- **D1** baseline significance at the primary spec (L0+L1+AHPVT)
-- **D2** height negative-control outcome (contaminated — see [§7](#7-negative-control-outcome))
-- **D3** sibling-dissociation specificity check
-- **D4** adjustment-set stability (β drift across L0 / L0+L1 / L0+L1+AHPVT)
-- **D5** outcome-component consistency (across the 3 W4 cognitive tests)
-- **D6** dose-response monotonicity (continuous only)
-- **D7** positivity / overlap
-- **D8** saturated-school selection penalty (informational)
-- **D9** collider / double-adjustment red flags (hardcoded)
+> **Legend — D-codes used in the findings/caveats columns below.** Formal pass/fail thresholds + plain-language intuition for each diagnostic are in [addhealth_synthesis.md §6.5](addhealth_synthesis.md#65-causal-screening-diagnostic-battery-d1d9). Narrative context in [research_journal.md §Phase 4](research_journal.md#phase-4--preliminary-causal-screening-d1d9). One-line refresher below:
+>
+> - **D1** baseline significance (L0+L1+AHPVT, p < 0.05)
+> - **D2** height negative-control outcome — **contaminated** (see [§2.7](#27-negative-control-outcome)); D2 is reported but not load-bearing for the shortlist
+> - **D3** sibling-dissociation specificity check (same-sign, larger-magnitude target vs. sibling, gap > pooled SE)
+> - **D4** adjustment-set stability: relative β drift across L0 / L0+L1 / L0+L1+AHPVT < 30 % AND sign-stable
+> - **D5** outcome-component consistency across the 3 W4 cognitive tests (cognition only)
+> - **D6** dose-response monotonicity across exposure quintiles (continuous only)
+> - **D7** positivity / overlap: fitted p̂ ∈ (0.02, 0.98), eff_N ≥ 500
+> - **D8** saturated-school selection penalty (informational)
+> - **D9** hard-coded collider / double-adjustment red flags
+
+> ⚠ **AHPVT callout.** Every β that this dictionary annotates for a cognitive outcome comes from the L0+L1+AHPVT primary spec and therefore **conditions on** `AH_PVT` (W1 verbal IQ). If AHPVT is a confounder of the W1-social-integration → cognition path, this is correct; if it's a mediator, the reported β under-estimates the total effect. D4 cannot distinguish the two. See [synthesis §5.6](addhealth_synthesis.md#56-identification-assumptions-and-target-estimand) for the project's standing assumption and the Task-16 resolution plan.
 
 ---
 
@@ -216,7 +219,7 @@ Both items are D9 red-flagged because they are components of the `CESD_SUM` L1 c
 | Code | Label | Wave | N | Kind | Findings | Caveats |
 |---|---|:-:|---:|---|---|---|
 | `W4_COG_COMP` | `[derived]` | W4 | 3,238 (primary frame) | continuous (z-scored) | Used as `y` in every task 10–14 analysis and as the "cognitive" outcome in task 15 (mid-pack at 5/24 significant exposures). | Every exposure fails D4 adjustment stability, with AHPVT contributing most of the drift. See [research_journal.md §Phase 4 main finding](research_journal.md#phase-4--preliminary-causal-screening-d1d9). |
-| `C4WD90_1` | "S14 # WORDS ON LIST RECALLED 90 SEC-W4" | W4 | 5,101 | continuous (0–15) | Immediate-recall component. | Protocol in [addhealth_synthesis.md §4.4](addhealth_synthesis.md#44-wave-iv-cognitive-battery-datawaw4w4inhomesas7bdat). |
+| `C4WD90_1` | "S14 # WORDS ON LIST RECALLED 90 SEC-W4" | W4 | 5,101 | continuous (0–15) | Immediate-recall component. | Protocol in [addhealth_synthesis.md §4.4](addhealth_synthesis.md#4-primary-outcome-cognitive-performance). |
 | `C4WD60_1` | "S14 # WORDS ON LIST RECALLED 60 SEC-W4" | W4 | 5,097 | continuous (0–15) | Delayed-recall component. | |
 | `C4NUMSCR` | "TOTAL SCORE ON NUMBER RECALL TASK-W4" | W4 | 5,102 | continuous (0–7) | Backward-digit-span component. | |
 
